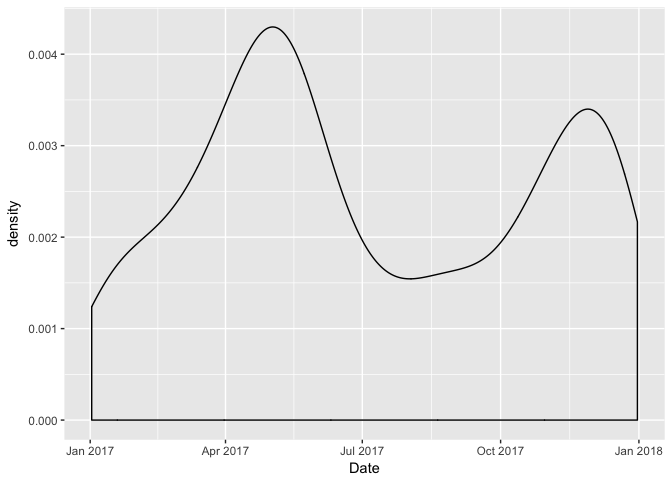
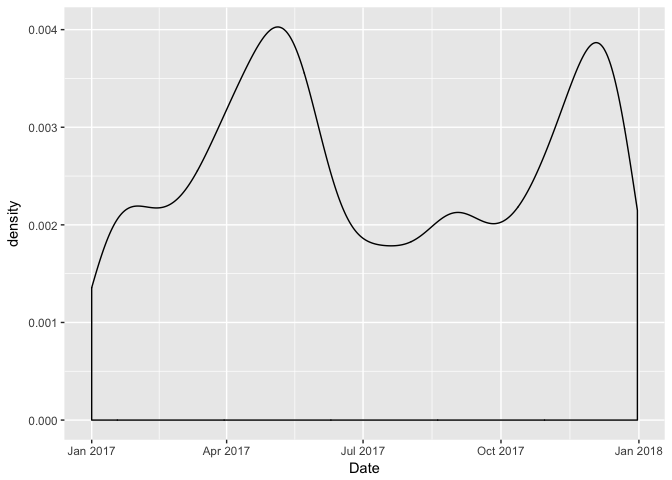
Added department rankings

diff --git a/hw10/ScrapingBy.md b/hw10/ScrapingBy.md
@@ -7,6 +7,12 @@ output:
 
 
 ```r
+knitr::opts_chunk$set(echo = TRUE)
+options(knitr.table.format = 'markdown')
+```
+
+
+```r
 library(readr)
 suppressPackageStartupMessages(library(tidyverse))
 ```
@@ -23,43 +29,23 @@ We begin by reading the scraped data:
 
 
 ```r
-data <- read_csv("rmp_data.csv")[-1]
+data <- suppressMessages(read_csv("rmp_data.csv")[-1])
 ```
 
 ```
 ## Warning: Missing column names filled in: 'X1' [1]
 ```
 
-```
-## Parsed with column specification:
-## cols(
-##   X1 = col_integer(),
-##   University = col_character(),
-##   Professor = col_character(),
-##   Course = col_character(),
-##   Difficulty = col_double(),
-##   OverallRating = col_double(),
-##   Comments = col_character(),
-##   Date = col_date(format = ""),
-##   Unhelpful = col_integer(),
-##   Helpful = col_integer(),
-##   Grade = col_character()
-## )
-```
-
 The first thing is to look for correlation between difficulty and overall rating:
 
 
 ```r
-ggplot(data, aes(x = Difficulty, y = OverallRating)) + geom_jitter(aes(colour = Grade), alpha = 0.8) + geom_smooth()
-```
-
-```
-## `geom_smooth()` using method = 'loess'
+ggplot(data[complete.cases(data$Grade),], aes(x = as.factor(Difficulty), y = Rating)) + geom_boxplot(alpha = 0.5) + geom_jitter(aes(colour = Grade), alpha = 0.4)
 ```
 
 ![](ScrapingBy_files/figure-html/unnamed-chunk-3-1.png)<!-- -->
 
+I remove people who didn't report their grade (using `complete.cases()`) since they tended to overwhelm those that did. 
 
 We also might want to see how ratings correlate with the date, perhaps harder ratings occur in December and April when most universities have exams?
 
@@ -76,8 +62,65 @@ data$Date <- data$Date %>%
 ```
 
 ```r
-ggplot(data, aes(x = Date, fill = OverallRating)) + geom_density()
+ggplot(data, aes(x = Date)) + geom_density(alpha = 0.2)
 ```
 
 ![](ScrapingBy_files/figure-html/unnamed-chunk-4-1.png)<!-- -->
 
+We can see that there's normally a lull at the beginning of the semester, before reviews pick up towards the end of it.
+
+
+
+```r
+depdata <- data %>% 
+  group_by(Department) %>% 
+  summarise(avg = mean(Difficulty), ratings = length(Difficulty))
+
+knitr::kable(head(depdata))
+```
+
+
+
+|Department   |      avg| ratings|
+|:------------|--------:|-------:|
+|Accounting   | 3.276923|     130|
+|Agriculture  | 1.900000|      20|
+|Anthropology | 2.844660|     103|
+|Architecture | 1.500000|       4|
+|Biology      | 3.280000|      75|
+|Business     | 3.150327|     153|
+
+I want to use this data to find which department has the students that complain the most. On first thought it might be tempting to say it's the department with the worst average, but Chemical Engineering departments only have 2 reviews (second place, Speech Pathology & Audiology only has 13), so clearly there's only a very small minority that likes to complain a lot. Next we might say that it's the department with the most reviews, but Communication has an average difficulty rating of 2.8; clearly Communication students like to communicate a lot, but not necessarily to complain (interestingly "Communications" departments have a much worse difficulty rating, but very few ratings).
+
+If we limit ourselves to the only those with more than 100 reviews we get: 
+
+
+```r
+depdata %>% 
+  filter(ratings > 100) %>% 
+  arrange(-avg) %>% 
+  knitr::kable()
+```
+
+
+
+|Department        |      avg| ratings|
+|:-----------------|--------:|-------:|
+|Computer Science  | 3.450000|     140|
+|Economics         | 3.381119|     286|
+|History           | 3.288235|     340|
+|Accounting        | 3.276923|     130|
+|Political Science | 3.195804|     286|
+|Science           | 3.178862|     246|
+|Business          | 3.150327|     153|
+|Philosophy        | 3.112903|     124|
+|Mathematics       | 3.092537|     335|
+|Psychology        | 3.036765|     272|
+|English           | 3.025568|     352|
+|Languages         | 2.994118|     170|
+|Anthropology      | 2.844660|     103|
+|Geography         | 2.823009|     113|
+|Communication     | 2.792657|     463|
+|Fine Arts         | 2.770335|     209|
+
+It seems like one could make an argument for the most frequent complainers being from either Computer Science, Economics, or History. (Interestingly, physics and chemistry both have even higher average difficulty ratings than computer science but surprisingly have less than 40 reviews.)

diff --git a/hw10/README.md b/hw10/README.md
@@ -29,3 +29,6 @@ Once I had the function, I used a loop to cycle through the data corresponding t
 
 This file showcases a couple of ways to use the data.
 
+## Makefile
+
+I used a makefile in order to update my project to make it consistent before any uploads, but my project ended up having a much simpler structure than I anticipated, so I don't think it was necessary strictly speaking.
